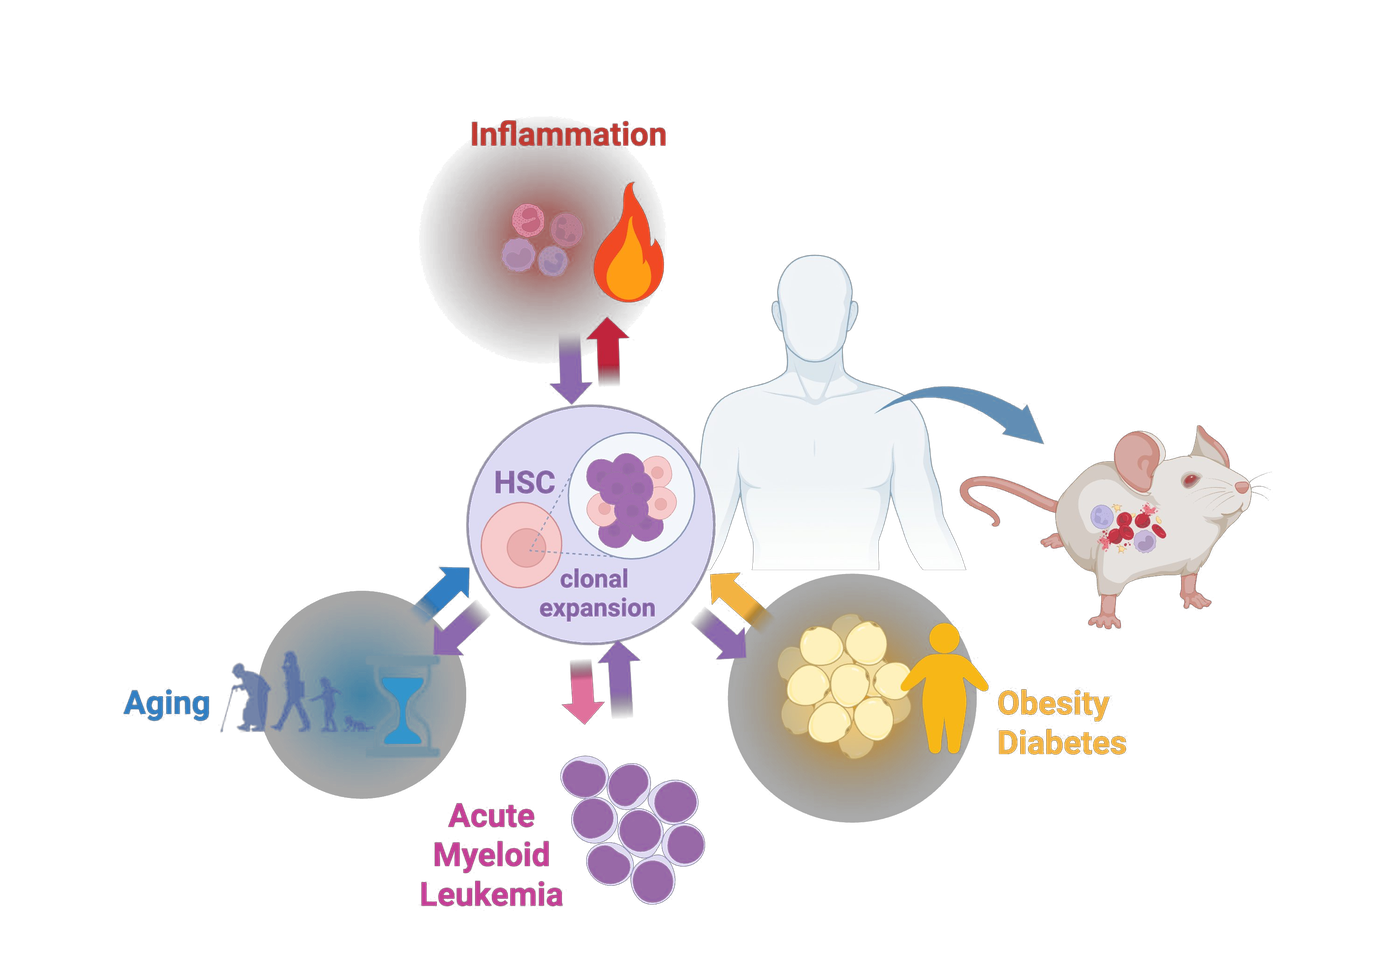
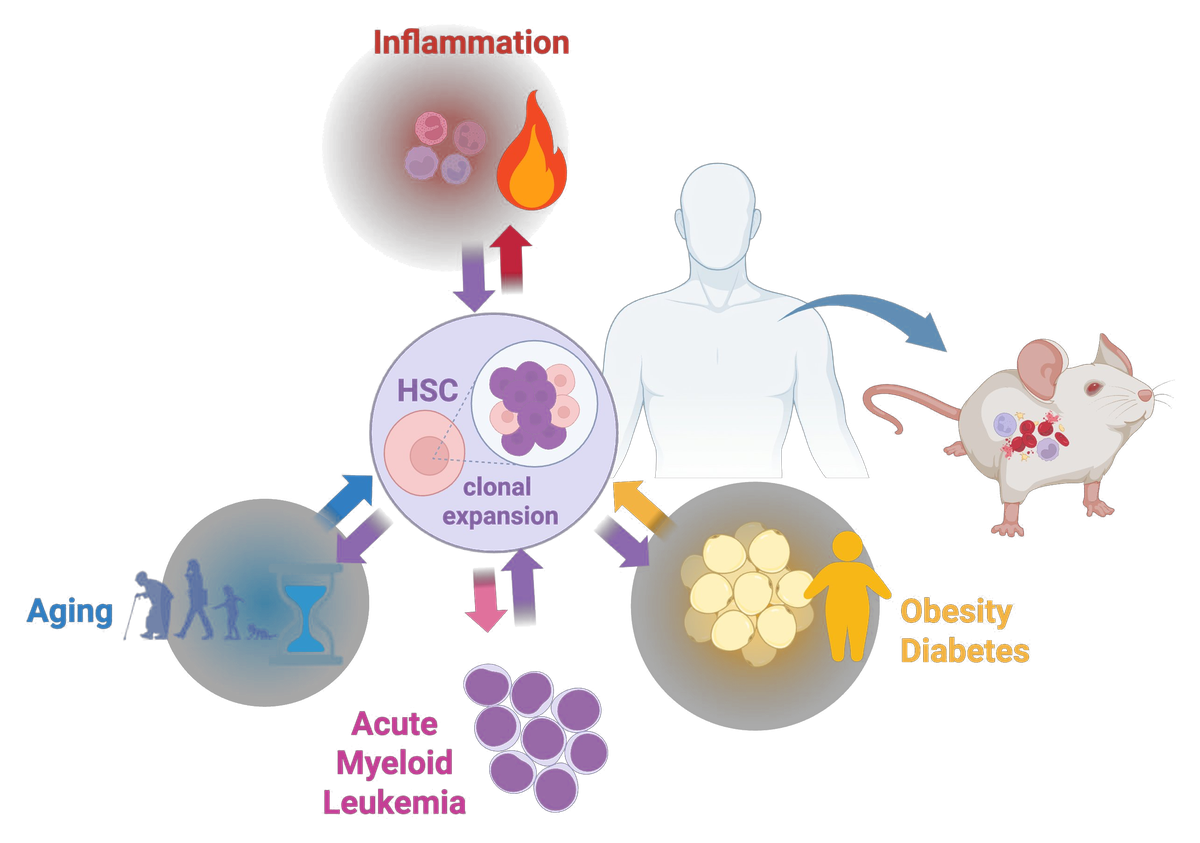
Trim diagram whitespace and enlarge hero figure
- Crop ~120px blank margins baked into research_diagram.png so the
  artwork fills its box (1400x980 -> 1200x843)
- Widen hero image column (1fr 1.55fr) and adjust headline size to fit

Changed region(s): [[0.0, 0.0308, 0.8633, 0.987], [0.555, 0.2159, 0.9867, 0.6477]]

diff --git a/css/styles.css b/css/styles.css
@@ -115,13 +115,13 @@ section { padding: 7rem 0; }
 }
 .hero-grid {
   display: grid;
-  grid-template-columns: 1fr 1.3fr;
-  gap: 2.5rem;
+  grid-template-columns: 1fr 1.55fr;
+  gap: 2rem;
   align-items: center;
 }
 .hero h1 {
   margin-bottom: 1.5rem;
-  font-size: clamp(2.3rem, 4.8vw, 4.6rem);
+  font-size: clamp(2.1rem, 4.2vw, 4.1rem);
   overflow-wrap: break-word;
 }
 .hero h1 em {
@@ -138,7 +138,7 @@ section { padding: 7rem 0; }
 .hero-cta { display: flex; gap: 1rem; flex-wrap: wrap; }
 
 .hero-image {
-  aspect-ratio: 1.43 / 1;
+  aspect-ratio: 1.42 / 1;
   position: relative;
 }
 .hero-image img {